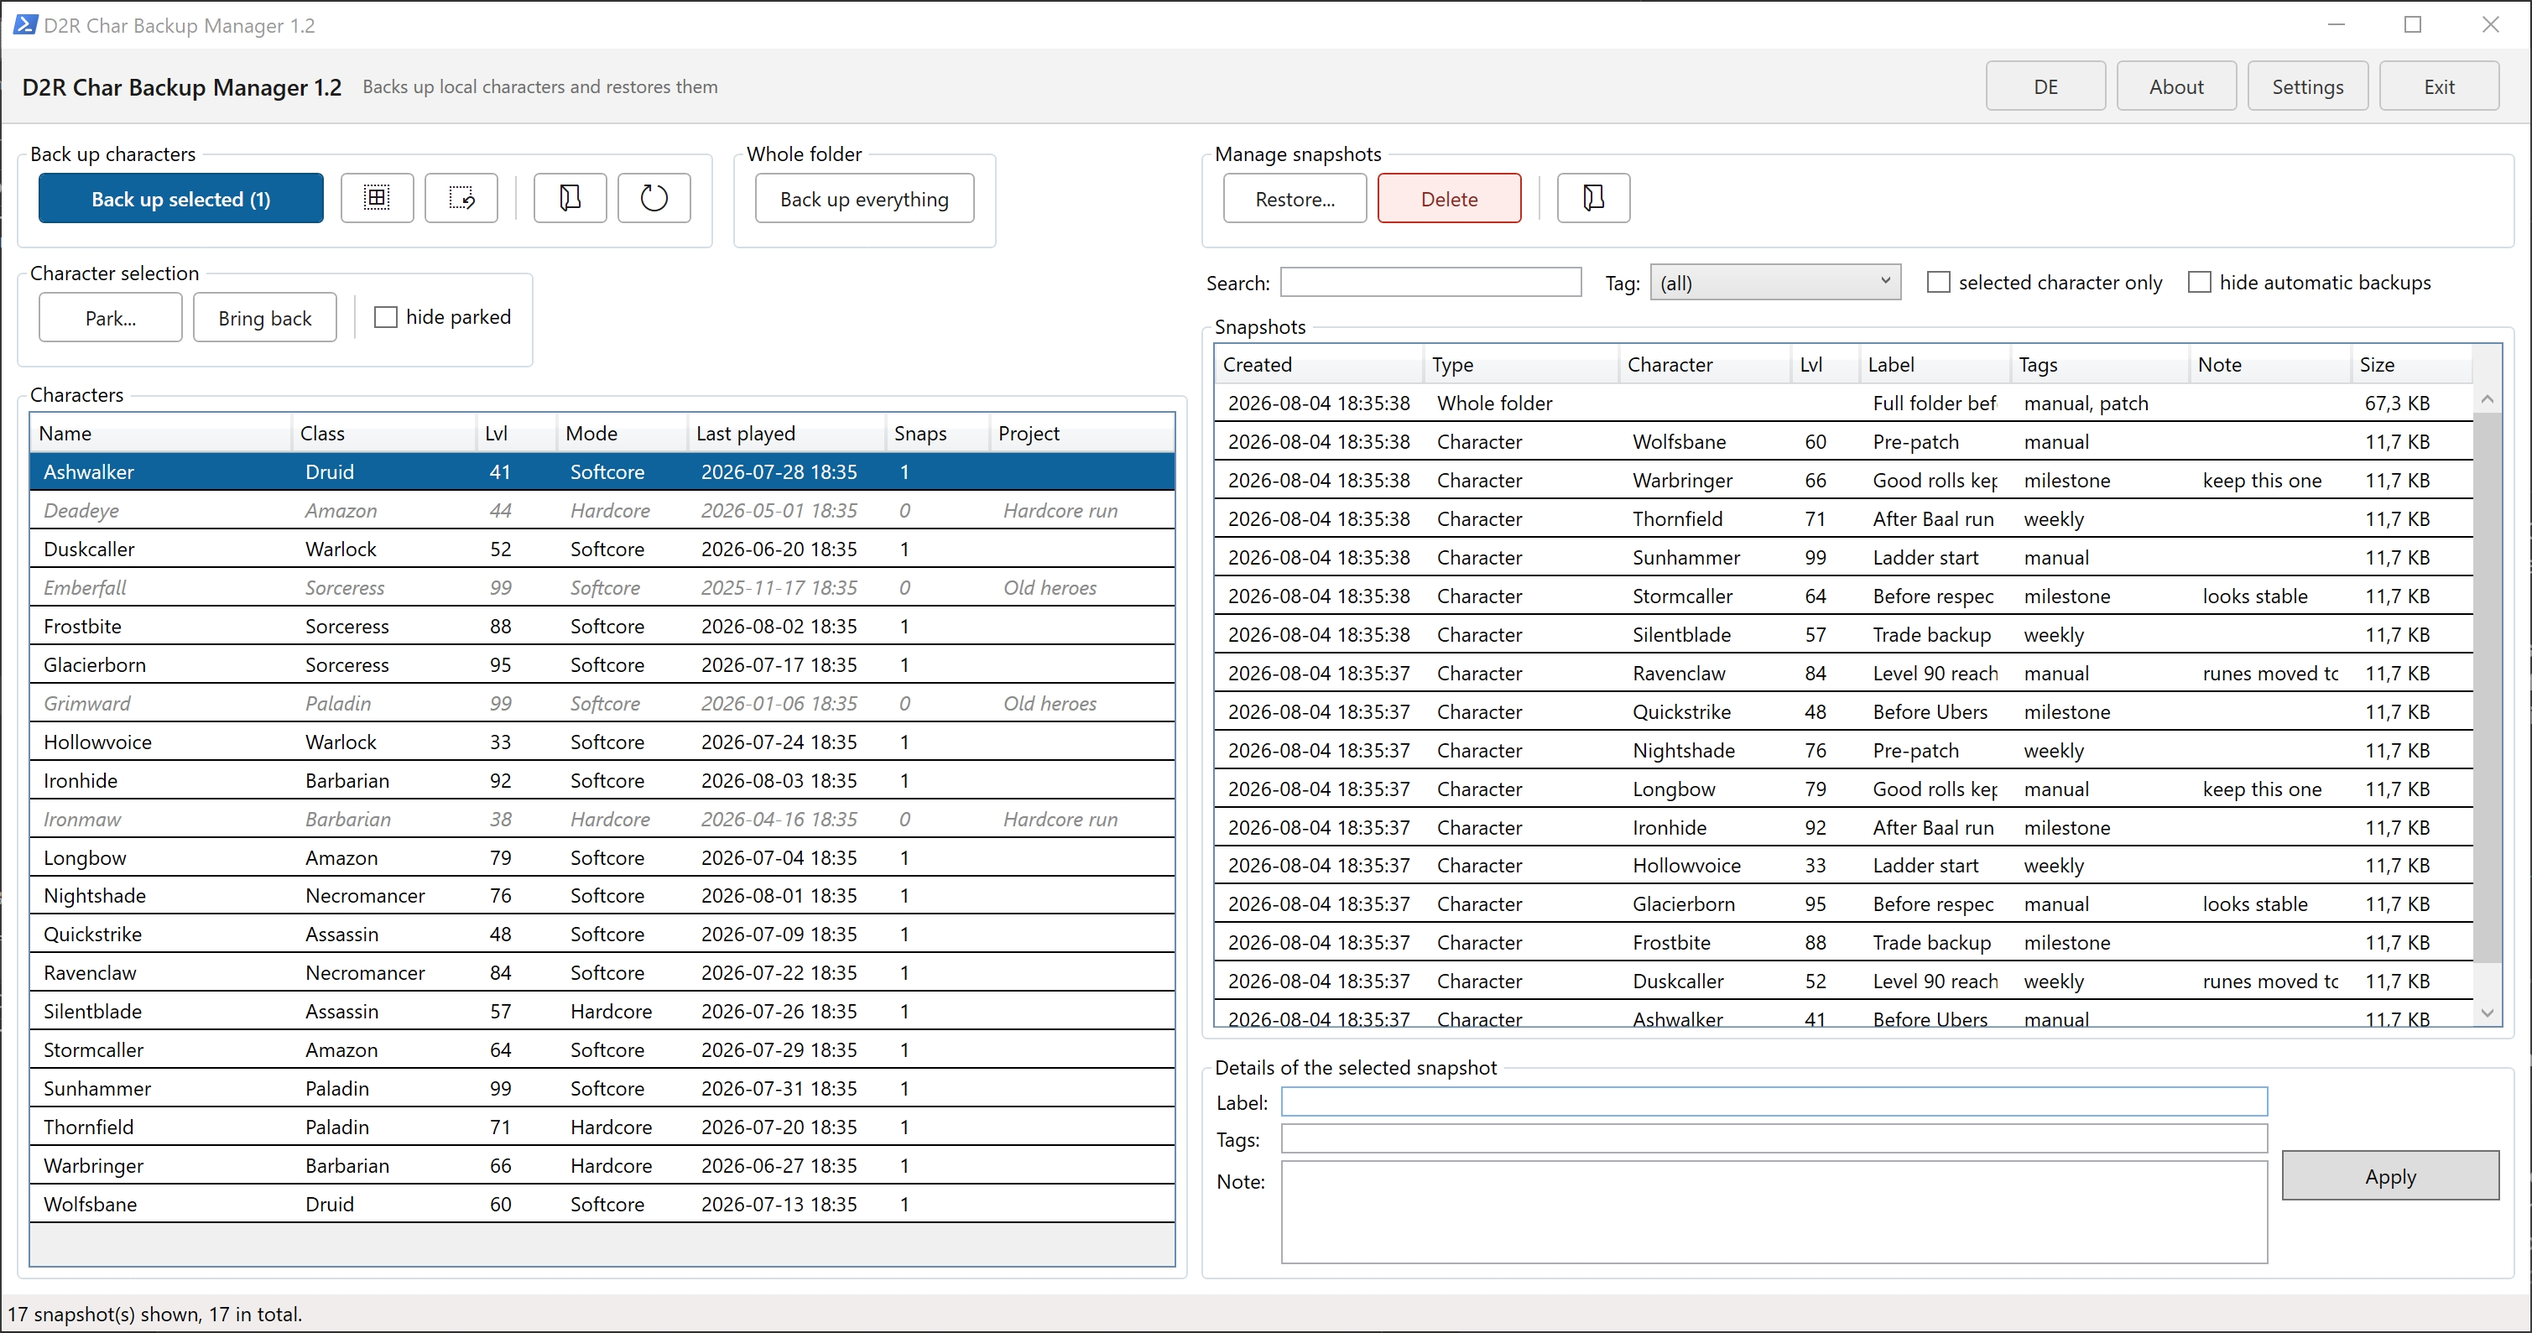
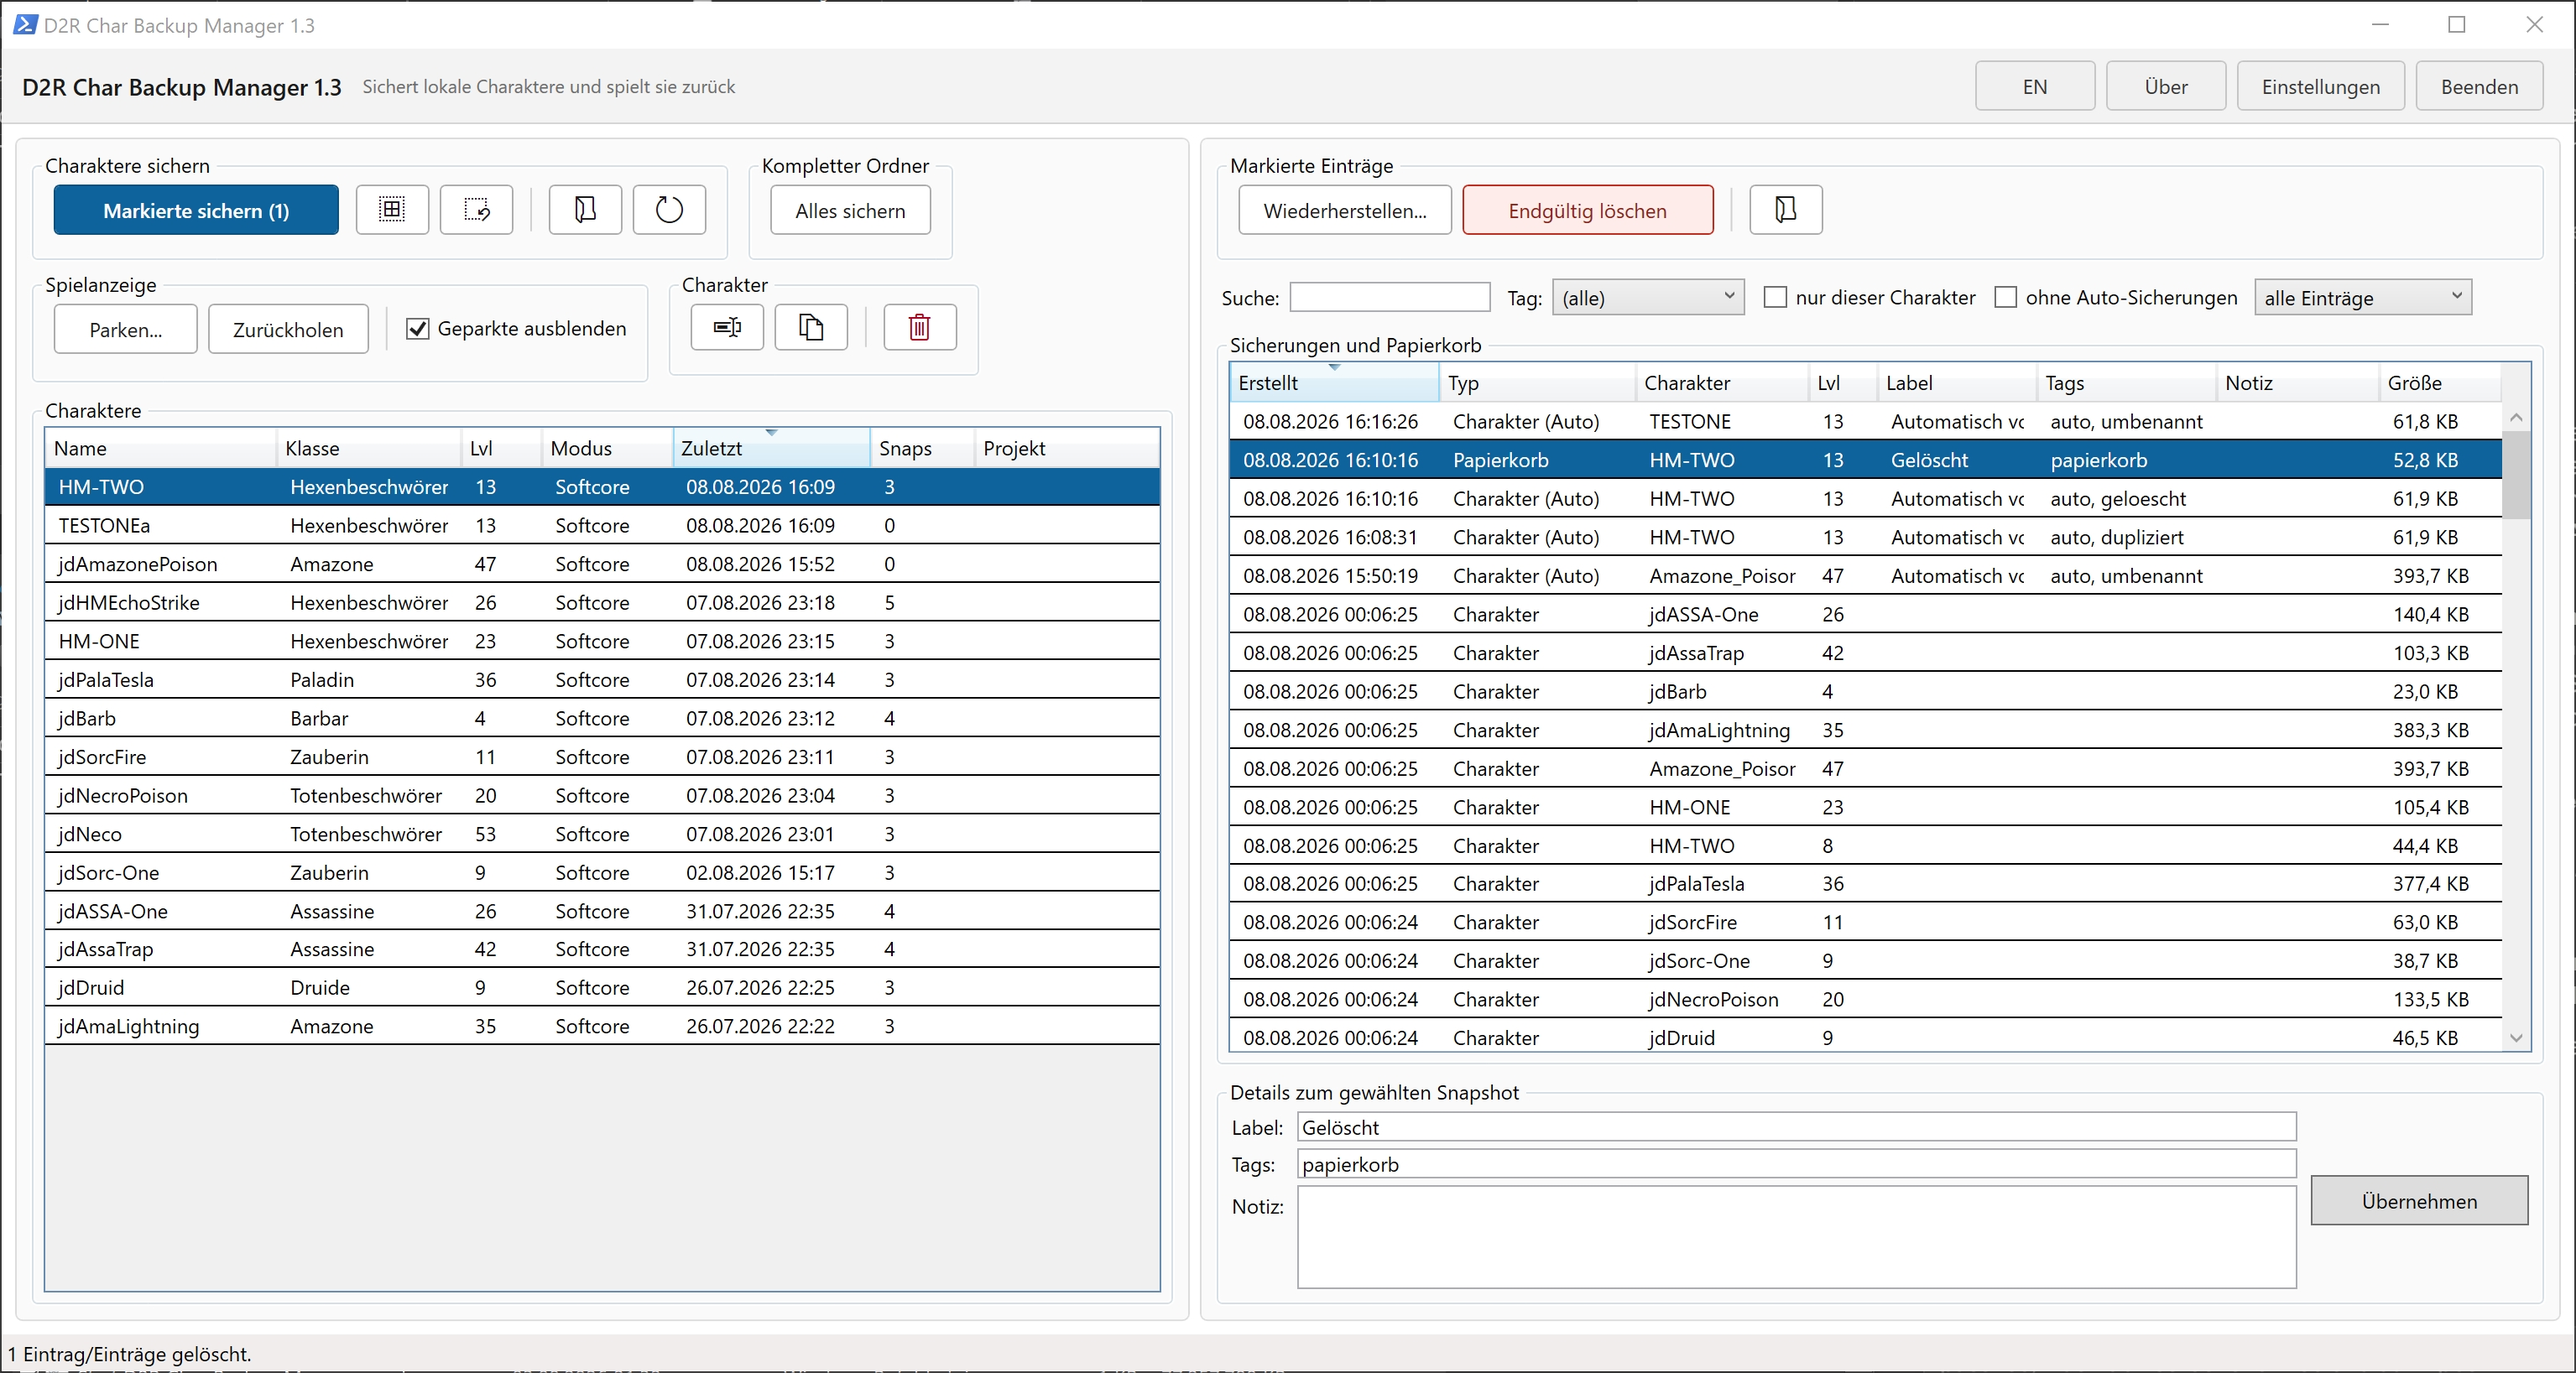
Screenshot fuers README auf 1.3 gebracht
Vom Captain aus dem laufenden Programm mit den echten Daten aufgenommen - dass
die Charakternamen darin stehen, ist ausdruecklich in Ordnung, Pfade und
Benutzername sind nicht im Bild. Bis 1.21 stammte das Bild aus der
Demo-Umgebung mit erfundenen Charakteren.

Zu sehen ist der neue Stand: die gerahmten Bereiche, "Markierte Eintraege" mit
"Endgueltig loeschen" bei einem markierten Papierkorb-Eintrag, die Liste
"Sicherungen und Papierkorb" samt Filter.

Im README musste dafuer der Parken-Abschnitt weichen, der vier geparkte
Charaktere im Bild beim Namen nannte - die stammten aus der Demo, und im neuen
Bild sind Geparkte ausgeblendet.

Changed region(s): [[0.0, 0.0308, 1.0, 1.0], [0.4983, 0.9251, 0.9032, 0.9559], [0.0, 0.0, 0.1246, 0.0308]]

diff --git a/README.md b/README.md
@@ -125,9 +125,9 @@ nothing is rewritten.
 
 Parked characters stay visible inside the program — greyed out and italic, with
 their project in the last column — so you never lose track of what you put away.
-You can see four of them in the screenshot at the top: *Deadeye* and *Ironmaw* in
-"Hardcore run", *Emberfall* and *Grimward* in "Old heroes". Bringing them back is
-the same move in reverse.
+A checkbox hides them from the list when they are in the way; that changes the
+display only, never the parking itself. Bringing them back is the same move in
+reverse.
 
 **A backup of every character is taken before parking it, and this cannot be
 switched off.** A backup is a copy; a parked character is the original in a
